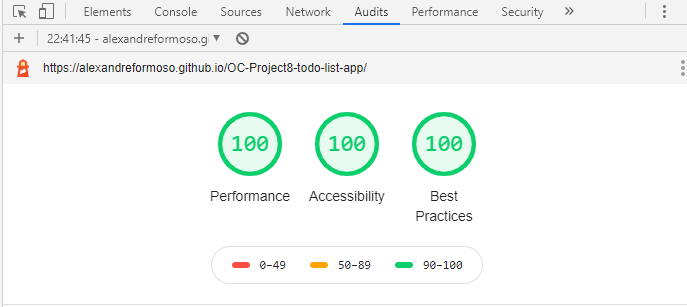
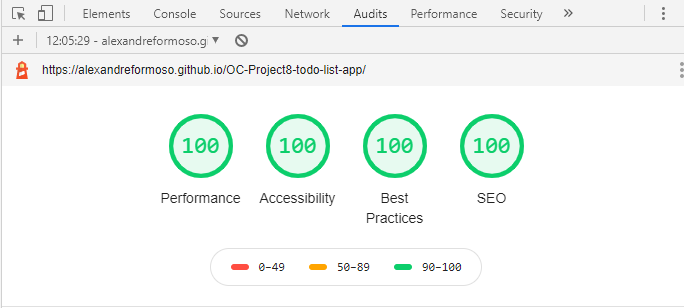
Add content more to documentation

diff --git a/documentation/index.html b/documentation/index.html
@@ -38,8 +38,10 @@
 							<li><button class="tablinks" onclick="openContent(event, 'Starting')">Getting Started</button></li>
 							<li><button class="tablinks" onclick="openContent(event, 'Bugs')">Fixing Bugs</button></li>
 							<li><button class="tablinks" onclick="openContent(event, 'Testing')">Adding Tests</button></li>
-							<li><button class="tablinks" onclick="openContent(event, 'Auditing')">Analysing Site Performance</button></li>
-							<li><button class="tablinks" onclick="openContent(event, 'Auditing-competitor')">Analysing Competitor's Site Performance</button></li>
+							<li><button class="tablinks" onclick="openContent(event, 'Auditing')">Analysing Site Performance</button>
+							</li>
+							<li><button class="tablinks" onclick="openContent(event, 'Auditing-competitor')">Analysing Competitor's
+									Site Performance</button></li>
 						</ul>
 					</div>
 					<!-- content -->
@@ -186,14 +188,16 @@
 										</div>
 									</div>
 								</div>
-								<br /><b><em>Performance</em></b>. In the Metrics section we can see our todo app's performance. <em>First
+								<br /><b><em>Performance</em></b>. In the Metrics section we can see our todo app's performance.
+								<em>First
 									Contentful Paint</em> tells us that content was first painted to the screen at 1.0s,
 								which is a good milestone in the user's perception of the page load; <em>Time To Interactive</em>, on
 								the other hand, marks the point at which the page appeared ready enough to handle user interactions.
 								Overall, the app avarages 1.0s to populate contents on the page (<em>Speed Index</em>) and we learn that
 								the longest a user could potentially wait until the app is ready to take input (from First Content
 								Paint) is 30ms, which is great.
-								<br /><b><em>Accessibility</em></b> involves understanding how people with disability access and interact with
+								<br /><b><em>Accessibility</em></b> involves understanding how people with disability access and
+								interact with
 								the web pages we build. As a Web Developer, following the W3C standards on Accessibility (WCAG) and
 								improving the semantics of our HTML will enhance the experience for users of <a
 									href='https://www.google.com/search?q=assistive+technology&source=lmns&bih=625&biw=1366&rlz=1C1CHBD_en-GBGB755GB755&hl=en&ved=2ahUKEwjOstyP1sLnAhUTgHMKHVzKAJUQ_AUoAHoECAEQAA'
@@ -212,41 +216,41 @@
 							<h5>Performance Improvement</h5>
 							<p>We made some changes and ran a new audit. Below, we see the results.</p>
 							<div class="img-box col-xs-12 col-md-12">
-								<img class="scaleImg" src="img/audit-our-todo-final.png" title="Final audit" alt="Our todo app final site audit" />
+								<img class="scaleImg" src="img/audit-our-todo-final.png" title="Final audit"
+									alt="Our todo app final site audit" />
 								<div id="myModal" class="modal">
-									<span class="close"
-										onclick="document.getElementById('myModal').style.display='none'">&times;</span>
+									<span class="close" onclick="document.getElementById('myModal').style.display='none'">&times;</span>
 									<img class="modal-content" id="img01">
 									<div id="caption"></div>
 								</div>
-							</div><br/><br/>
-						</div> 	<!-- Auditing Our Todo app -->
-					
+							</div><br /><br />
+						</div> <!-- Auditing Our Todo app -->
+
 						<div id="Auditing-competitor" class="tab-content">
 							<h2 class="content-title">Analysing Competitor's Site Performance</h2>
-							<p>Here, we are going to measure load and performance of <a id="underline1" target="_blank"
+							<p>Here, we are going to measure load time of <a id="underline1" target="_blank"
 									href="https://alexandreformoso.github.io/OC-Project8-todo-list-app/">our todo app</a> against a <a
 									id="underline2" target="_blank" href="http://todolistme.net/">competitor's</a> using DevTools. We will
 								then see ways in which we can optimise perfomance for end users.</p>
 							<p style="padding-top: 10px;"><small><b>Please note</b> that gatherings may differ from user to user,
 									depending on one's set up. This audit was run on a 64-bit Windows 10 machine, using the Incognito mode
 									(to avoid noise) of the Google Chrome v.79 (chrome://version/) browser.</small></p>
-							<h4>Our todo app</h4>
-							<div class="todo-image-wrapper"><a target="_blank"
-								href="http://todolistme.net/"><img src="../img/competitor-to-do-img.png"
-										title="competitor todo list application" alt="access competitor todo list application" /></a></div><br />
+							<h4>Competitor's todo app</h4>
+							<div class="todo-image-wrapper"><a target="_blank" href="http://todolistme.net/"><img
+										src="../img/competitor-to-do-img.png" title="competitor todo list application"
+										alt="access competitor todo list application" /></a></div><br />
 							<h5>Startup Time</h5>
-							<p>The Network panel shows when resources loaded in, in which order they loaded, and how long they took to
-								load.
-								It is a great place to start to see if resources are being downloaded as expected.
-								<br /><br />For out todo app, the Network Log (image on the left below) shows that only 10 requests were
-								made in the 13.6KB of downloaded (or transferred) data, and overall only took 174ms of load time.
-								<br /><b><em>Mobile CUP Simulation (Network: Slow 3G | CPU: 4x slowdown)</em></b><br> For mobile device
-								users with slow connectivity, load time simulated shows 4.53s (right).
+							<p>Looking at the Network Log, we are able to see that our competiror's website required 66 network
+								requests, had 893KB in transferred data,
+								and spent over 2 seconds on load time, a double in figures when compared to our todo application.
+								<br /><br />Too many round trips can have an impact on loading, which subsequently affect the user
+								experience
+								- evident of this is when we simulate slow mobile CPU, notice how some of the resources take over 12
+								seconds to be dowloaded (see images below).
 								<div class="modal-img-wrapper border-radius">
 									<div class="img-box col-xs-12 col-md-6">
 										<!-- Trigger the Modal -->
-										<img class="scaleImg" src="img/load-our-todo.png" title="Desktop simulation"
+										<img class="scaleImg" src="img/load-competitor-todo.png" title="Desktop simulation"
 											alt="Desktop simulation diagram: Online" />
 										<!-- The Modal -->
 										<div id="myModal" class="modal">
@@ -260,7 +264,7 @@
 										</div>
 									</div>
 									<div class="img-box col-xs-12 col-md-6">
-										<img class="scaleImg" src="img/load-our-todo-slow3g.png" title="Mobile CUP simulation"
+										<img class="scaleImg" src="img/load-competitor-todo-slow3g.png" title="Mobile CUP simulation"
 											alt="Mobile CUP simulation diagram: Slow 3G" />
 										<div id="myModal" class="modal">
 											<span class="close"
@@ -273,15 +277,14 @@
 							</p>
 
 							<h5>Runtime Performance</h5>
-							<p><em>Runtime performance is how your page performs when it is running, as opposed to loading.</em><br />
-								Here, we are going to see how our todo app performs, and how we can improve potential issues.
+							<p>To measure and optimise website performance we start with an audit.
 								<br /><br />
 								<b><em>Site Audit</em></b><br />
 								Results indicate that our todo app performs well on Deskotop devices.
 								<div class="modal-img-wrapper border-radius">
 									<div class="img-box col-xs-12 col-md-6">
-										<img class="scaleImg" src="img/audit-our-todo.png" title="Site Audit"
-											alt="Our todo app site audit" />
+										<img class="scaleImg" src="img/audit-competitor-todo.png" title="Competitor's site audit"
+											alt="Competitor's todo app site audit" />
 										<div id="myModal" class="modal">
 											<span class="close"
 												onclick="document.getElementById('myModal').style.display='none'">&times;</span>
@@ -290,20 +293,48 @@
 										</div>
 									</div>
 									<div class="img-box col-xs-12 col-md-6">
-										<img class="scaleImg" src="img/audit-our-todo-performance.png" title="Performance Audit"
-											alt="Our todo app site performance audit" />
+										<img class="scaleImg" src="img/audit-competitor-todo-performance.png"
+											title="Competitor's performance audit" alt="Our todo app site audit" />
 										<div id="myModal" class="modal">
 											<span class="close"
 												onclick="document.getElementById('myModal').style.display='none'">&times;</span>
-											<img class="modal-content" id="img01">
+											<img class="modal-content border-radius" id="img01" />
 											<div id="caption"></div>
 										</div>
 									</div>
 								</div>
+								<br /><b>Performance</b>.
+								In the Metrics section (above) we're able to see that the first painted content takes 1.6s to appear on
+								the screen (<em>First
+									Contentful Paint</em>). However, as we are dealing with many HTTP requests, the site avarages 3.1s to
+								populate the contents of the page
+								(<em>Speed Index</em>). Consequently, this leads to 8.5s mark in the time a user has to wait until the
+								page becomes interactive or ready to take
+								user input (<em>Time To Interactive</em>) - this is considerably slow compared to our todo app's 1.1s of
+								<em>TTI</em>.
+								<br /><br />Below, are the opportunities highlighted to optimise performance.
+								<div style='width: 460px; height: auto; padding: 5px 0;' class='todo-image-wrapper'><img
+										src='img/audit-competitor-todo-performance-opportunity.png'
+										alt='performance audit - opportunities' />
+								</div>
+								<b>> <i>Eliminate render-blocking resources</i></b> refers to all URLs (particularly fonts, CSS and
+								jQuery) blocking the first paint of our page.
+								To fix this issue we start by making sure that script elements are placed at the bottom of the page
+								instead; then we should go ahed and identify what's
+								critical and non-critical CSS and JS. In other words, we can go: Audit > (open bottom tab menu) More
+								Options > <b><i><a href="https://developers.google.com/web/tools/chrome-devtools/coverage"
+											target="_blank">Coverage</a></i></b>. Under Coverage, click the reload icon on the tab submenu to
+								reload and start capturing coverage. This should present a list of URLs with red and blue/green
+								highlights on the right.
+								By opening each URL we can see how much code was used versus how much was loaded.
+								We can reduce the size of our pages by removing the extra code and only shipping the code that we need.
+								Alternatively, we can go on the <b>Network tab</b> and, right-click on a specific resource, and select
+								<b>Block Request URL</b>. This gives us an indication of how a page works without that particular
+								resource.
 								<div class="modal-img-wrapper border-radius">
 									<div class="img-box col-xs-12 col-md-6">
-										<img class="scaleImg" src="img/audit-our-todo-accessibility.png" title="Accessibility Audit"
-											alt="Our todo app site accessibility audit" />
+										<img class="scaleImg" src="img/audit-competitor-todo-performance-opportunity-solution1.png"
+											title="Competitor's performance audit" alt="Competitor performance audit - solution" />
 										<div id="myModal" class="modal">
 											<span class="close"
 												onclick="document.getElementById('myModal').style.display='none'">&times;</span>
@@ -312,50 +343,45 @@
 										</div>
 									</div>
 									<div class="img-box col-xs-12 col-md-6">
-										<img class="scaleImg" src="img/audit-our-todo-bestPractices.png" title="Best Practices Audit"
-											alt="Our todo app site best practices audit" />
+										<img class="scaleImg" src="img/audit-competitor-todo-performance-opportunity-solution2.png"
+											title="Competitor's performance audit" alt="Competitor performance audit - solution" />
 										<div id="myModal" class="modal">
 											<span class="close"
 												onclick="document.getElementById('myModal').style.display='none'">&times;</span>
-											<img class="modal-content" id="img01">
+											<img class="modal-content border-radius" id="img01" />
 											<div id="caption"></div>
 										</div>
 									</div>
 								</div>
-								<br /><b><em>Performance</em></b>. In the Metrics section we can see our todo app's performance. <em>First
-									Contentful Paint</em> tells us that content was first painted to the screen at 1.0s,
-								which is a good milestone in the user's perception of the page load; <em>Time To Interactive</em>, on
-								the other hand, marks the point at which the page appeared ready enough to handle user interactions.
-								Overall, the app avarages 1.0s to populate contents on the page (<em>Speed Index</em>) and we learn that
-								the longest a user could potentially wait until the app is ready to take input (from First Content
-								Paint) is 30ms, which is great.
-								<br /><b><em>Accessibility</em></b> involves understanding how people with disability access and interact with
-								the web pages we build. As a Web Developer, following the W3C standards on Accessibility (WCAG) and
-								improving the semantics of our HTML will enhance the experience for users of <a
-									href='https://www.google.com/search?q=assistive+technology&source=lmns&bih=625&biw=1366&rlz=1C1CHBD_en-GBGB755GB755&hl=en&ved=2ahUKEwjOstyP1sLnAhUTgHMKHVzKAJUQ_AUoAHoECAEQAA'
-									target='_blank'><em>assistive technology</em></a>.
-								Our Accessibility audit shows the following opportunity in our todo app:
-								<div style='height: 100px; padding: 5px 0;' class='todo-image-wrapper'><img
-										src='img/opportunitie-accessibility-failingElement.png' alt='accessibility audit failing element' />
+								<br /><b>Accessibility</b>
+								<div style='width: 460px; height: auto; padding: 5px 0;' class='todo-image-wrapper'><img
+										src='img/audit-competitor-todo-accessibilities-opportunity.png'
+										alt='performance audit - opportunities' />
 								</div>
-								To solution this problem we can simply wrap a <i>label</i> tag around the <i>h1</i> element and give it
-								a <i>for</i> property which matches that of form (input tag) element, like so:
-								<div style='height: 100px; padding: 5px 0;' class='todo-image-wrapper'><img
-										src='img/opportunitie-accessibility-failingElement-solution.png'
-										alt='accessibility audit fixed element' /></div>
-								<b><em>Best Practices</em></b> - Shows what the app is doing well (<em>Passed audits</em>).
+								<b>> <i>Background</i></b>. Here, we want a better constrast ratio between background and foreground
+								colours.<br />
+								<b>> <i>Id Atributes</i></b>. For best accessibility practices values of ID attributes should be
+								unique.<br />
+								<br /><b>Best Practices</b>
+								<div style='width: 460px; height: auto; padding: 5px 0;' class='todo-image-wrapper'><img
+										src='img/audit-competitor-todo-bestPractices.png'
+										alt='Competitors best practices audit - opportunities' alt='Best practices audit - opportunities' />
+								</div>
+								<b>> <i>HTTPS</i></b> - The site should use HTTPS for secure connection between the site and its
+								users.<br /><br />
+								<b>SEO</b>
+								<div style='width: 460px; height: auto; padding: 5px 0;' class='todo-image-wrapper'><img
+										src='img/audit-competitor-todo-seo-opportunity.png' alt='seo audit - opportunities' />
+								</div>
+								<b>> <i>Mobile friendlyness</i></b>. A meta tag with name attribute and value of "viewport" should have
+								been included in the document's head.<br />
+								<b>> <i>Accessibility compliance</i></b>. Images should include alternative text to ensure users with
+								assistive technology have a better browsering experience.<br />
 							</p>
-							<h5>Performance Improvement</h5>
-							<p>We made some changes and ran a new audit. Below, we see the results.</p>
-							<div class="img-box col-xs-12 col-md-12">
-								<img class="scaleImg" src="img/audit-our-todo-final.png" title="Final audit" alt="Competitor final site audit" />
-								<div id="myModal" class="modal">
-									<span class="close"
-										onclick="document.getElementById('myModal').style.display='none'">&times;</span>
-									<img class="modal-content" id="img01">
-									<div id="caption"></div>
-								</div>
-							</div><br/><br/>
+							<h5>Conclusion</h5>
+							<p>Overall, the tests indicate that our todo application appears to be more performance optimised than our
+								competitors'. Suggestions for cleaner, better performaning code should be looked into. 
+							</p>
 						</div> <!-- end of competitor's todo app audit section -->
 					</div>
 				</div>
